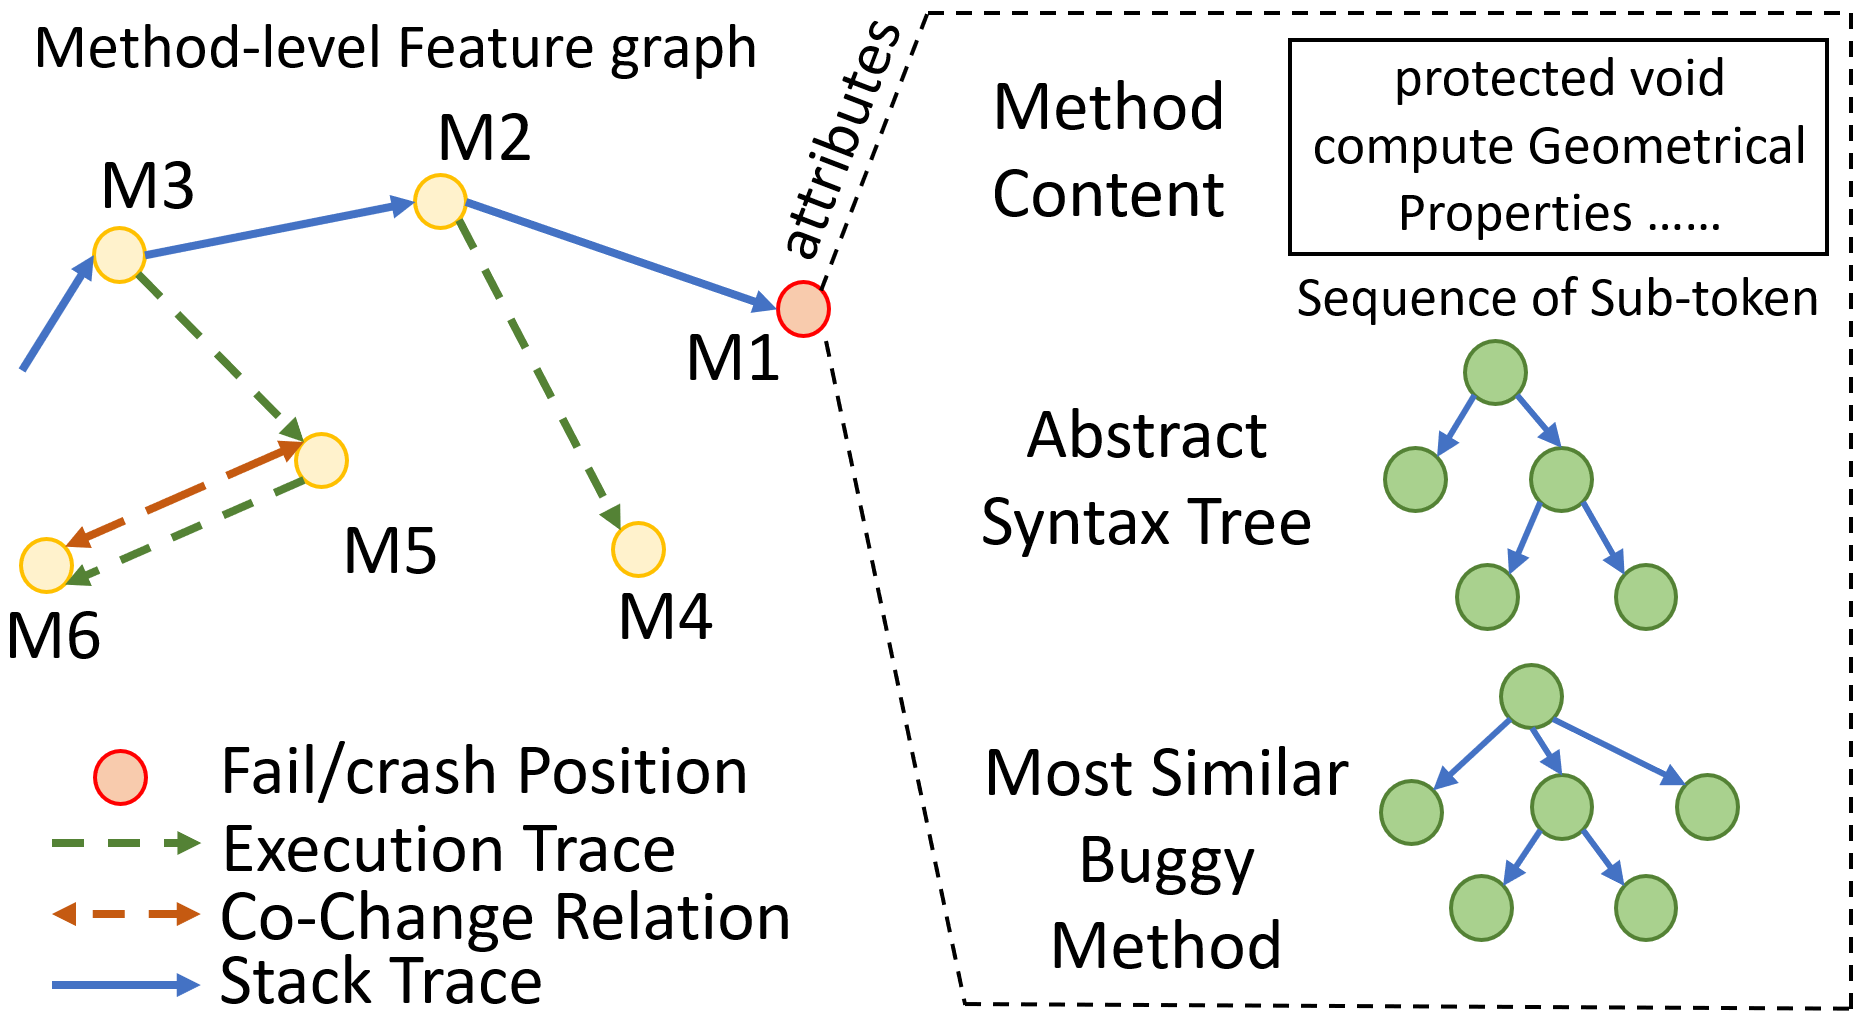
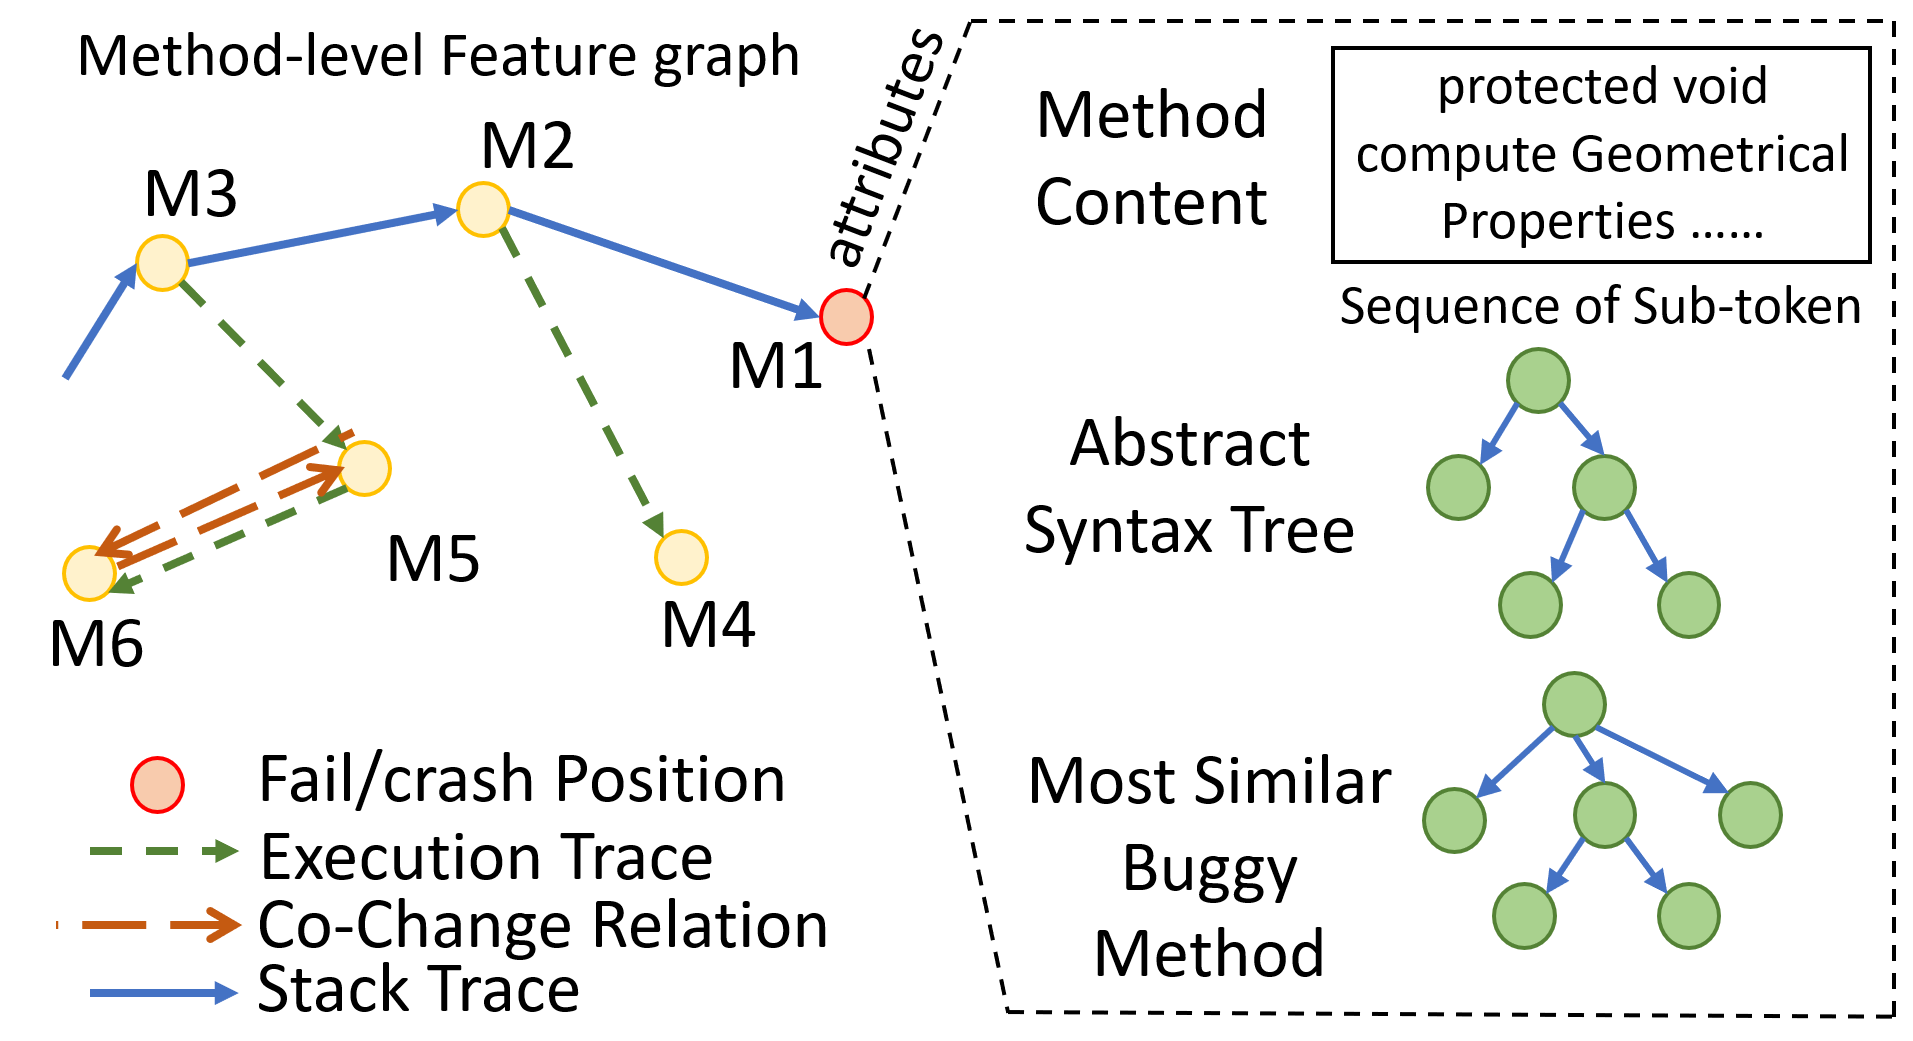
done with 4.1. on statement-level feature graph

diff --git a/sections/approach_step1.tex b/sections/approach_step1.tex
@@ -66,11 +66,17 @@ trace can be very long from the failing/crash point. Thus, we keep the
 methods with only $m$ levels of length in calling relations from that
 point. In our experiment, we use
 $m$=10. Figure~\ref{method-level-feature-extraction} illustrates a few
-calling relations (in green color) in some execution traces.
+calling relations (in green color) in some execution traces.  Finally,
+we also add the co-change relations among the methods into the feature
+graph in which there is a co-change relation between two methods that
+were changed together in the same commit of a project. Note: we make a
+co-change edge into two one-directional edges (as seen the one between
+$M_5$ and $M_6$ in Figure~\ref{method-level-feature-extraction}).
 
 %The second type of edge is the execution path. By using each method $m_j$ in the stack trace $st_i$ as the root method, \tool expands the stack trace $st_i$ by adding the executed methods into the graph. The direction of the execution edges $E_m^e$ is also the same as the call direction. Also, because sometimes the execution path may be very long for a method, we only keep the methods $m_k$ within ten steps from the crashed position $m_1$ that means in the graph, from node $m_k$ to $m_1$, the steps are no more than ten (when counting the steps, \tool ignore the edge direction). The green dotted line in Figure \ref{method-level-feature-extraction} shows an example for this type of edge. With the Figure \ref{method-level-feature-extraction}, the green dotted line reflects the relationship that when running the test case $t_i$ on $M2$, it also executes the method $M4$ based on the method call. And then, it executing the $M3$, it executes the method $M5$, and within $M5$, it also executes method $M6$ based on the method calls inside the methods.
 
-The third type of edge is the co-change relation. For this,  \tool collects all commit history from the input java project. If more than one method has changed in one commit, we mark it as a co-change. The co-change contains all the methods that changed together in this commit. To add the co-change relation as one type of edge, \tool makes the co-change relation become a two-directional edge $E_m^c$ (e.g. The orange edge between $M5->M6$ and $M6->M5$ in the Figure \ref{method-level-feature-extraction}).
+%The third type of edge is the co-change relation. For this,  \tool collects all commit history from the input java project. If more than one method has changed in one commit, we mark it as a co-change. The co-change contains all the methods that changed together in this commit. To add the co-change relation as one type of edge, \tool makes the co-change relation become a two-directional edge $E_m^c$ (e.g. The orange edge between $M5->M6$ and $M6->M5$ in the Figure \ref{method-level-feature-extraction}).
+
 %
 %\begin{itemize}%
 %	\item Graph: 
